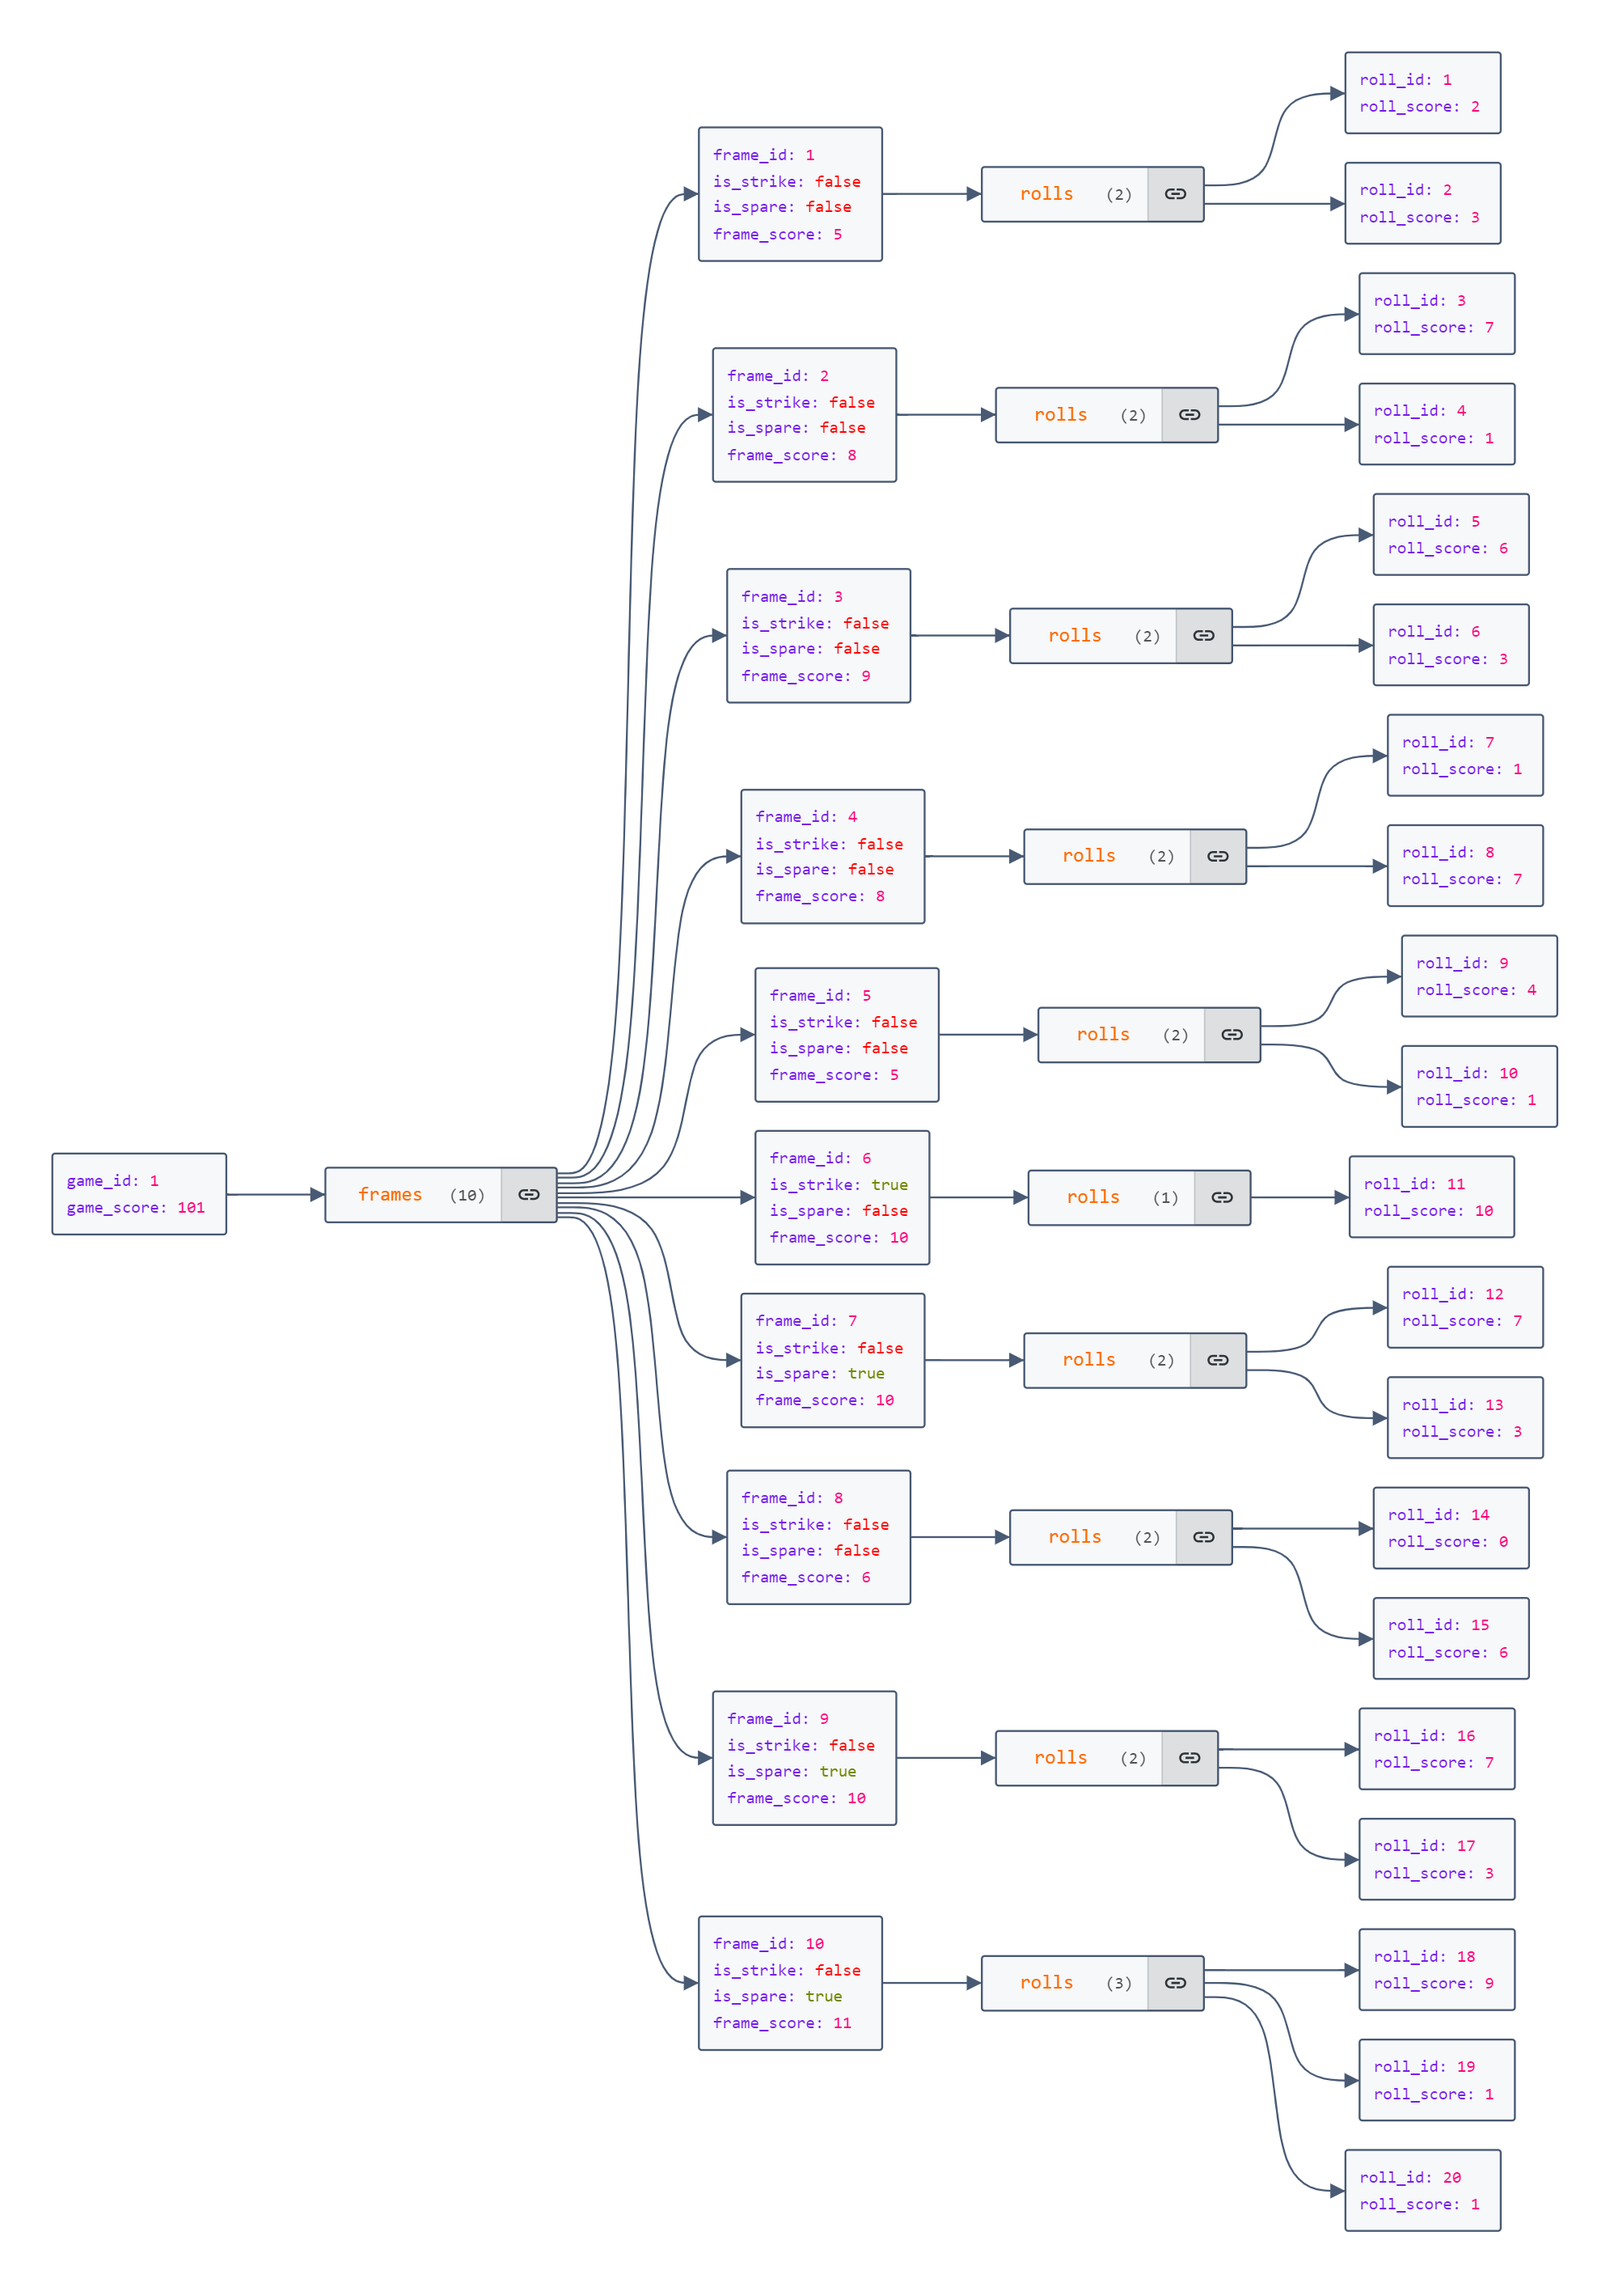
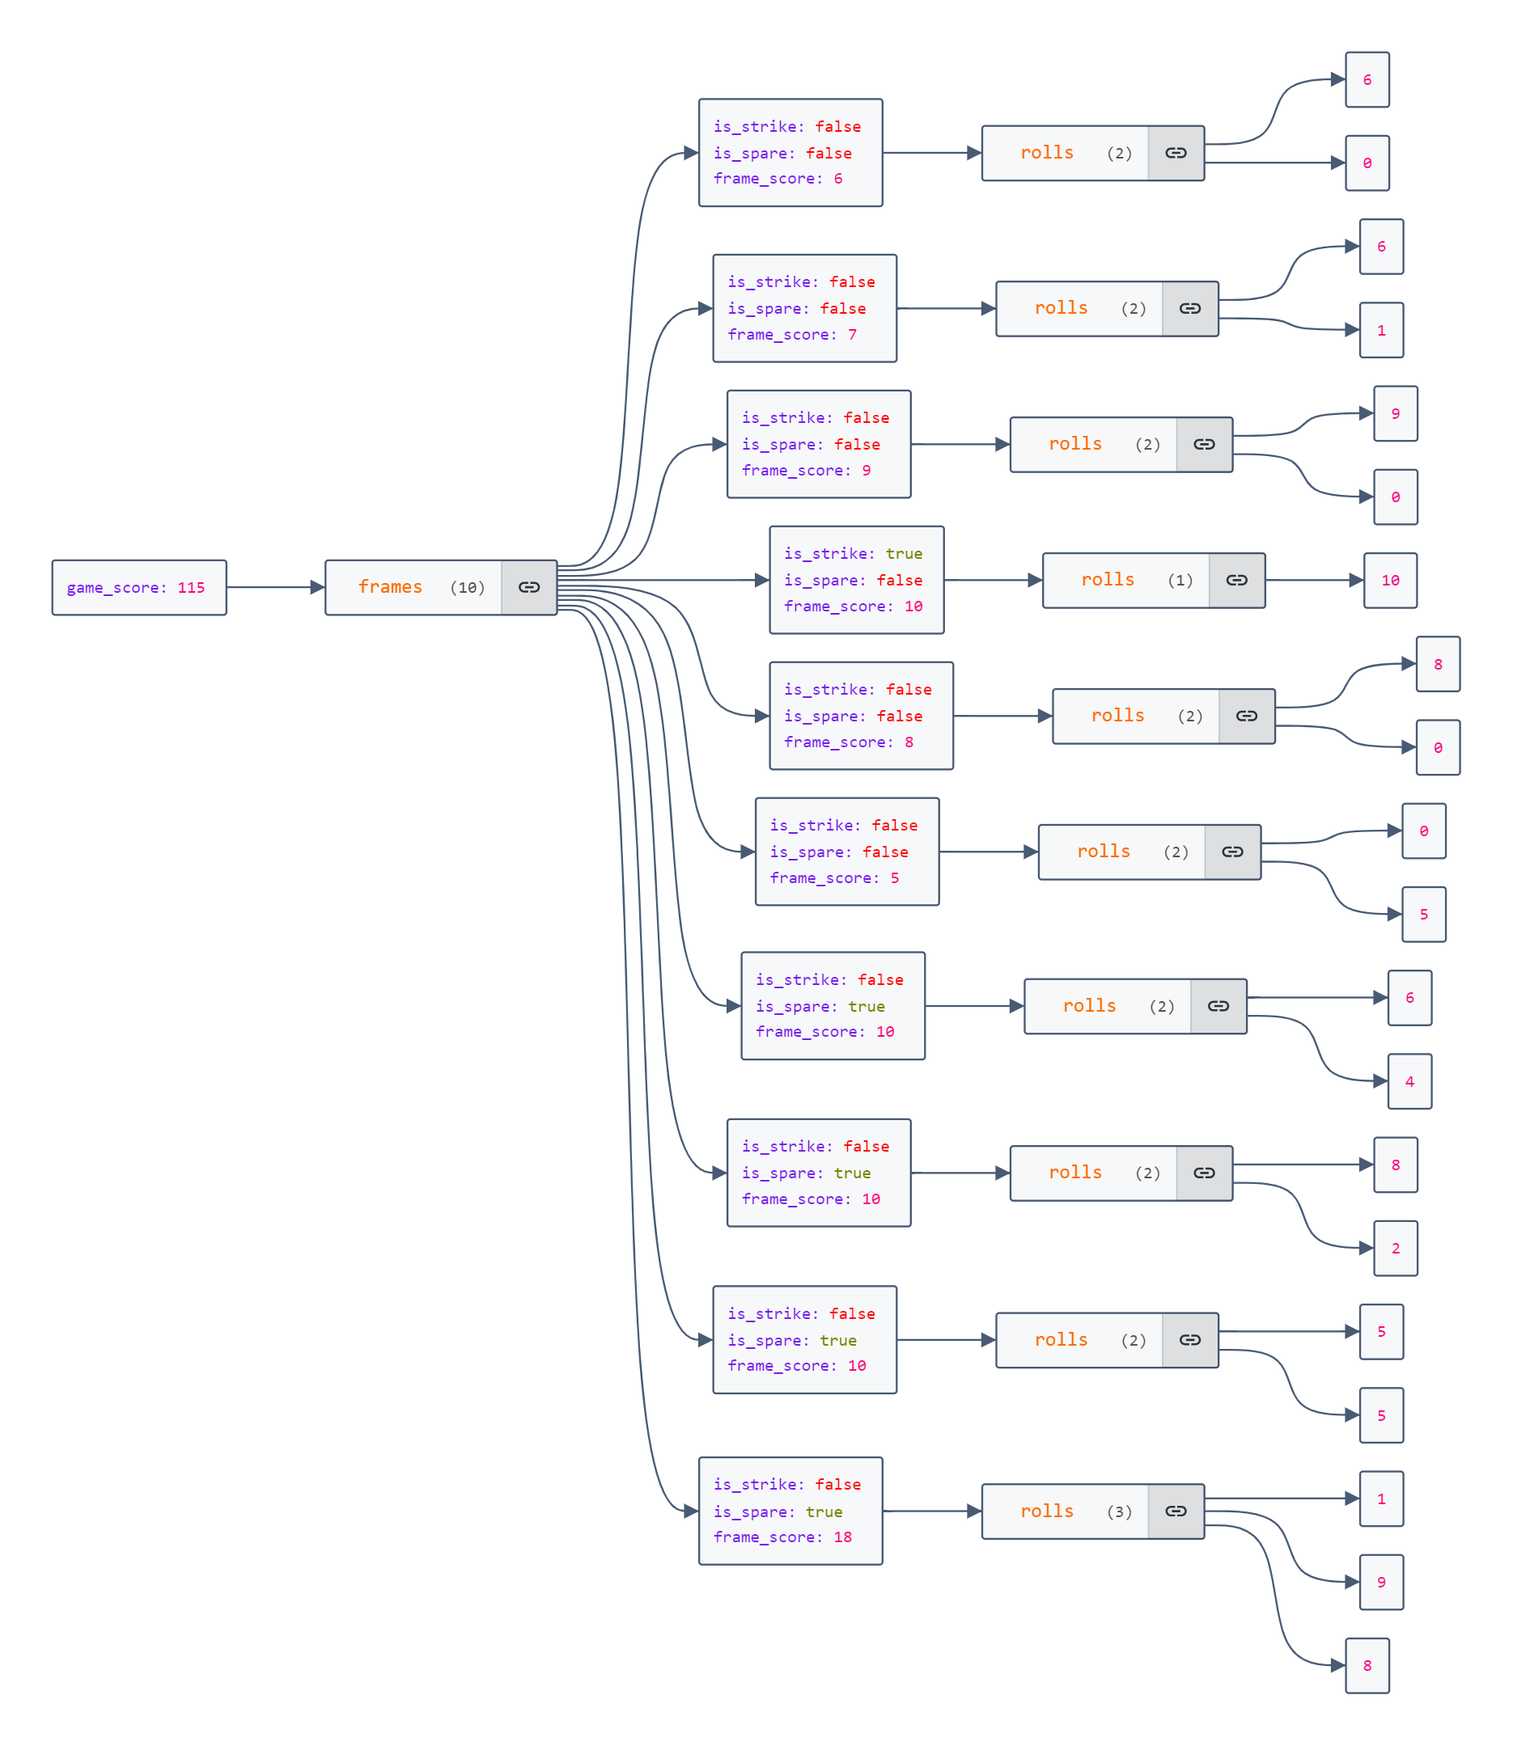
modified

diff --git a/README.md b/README.md
@@ -55,171 +55,100 @@ Random Bowling Game Score Generator API
 #### Sample JSON response
 ```JSON
 {
-  "game_id": 1,
   "frames": [
     {
-      "frame_id": 1,
       "rolls": [
-        {
-          "roll_id": 1,
-          "roll_score": 2
-        },
-        {
-          "roll_id": 2,
-          "roll_score": 3
-        }
-      ],
-      "is_strike": false,
-      "is_spare": false,
-      "frame_score": 5
-    },
-    {
-      "frame_id": 2,
-      "rolls": [
-        {
-          "roll_id": 3,
-          "roll_score": 7
-        },
-        {
-          "roll_id": 4,
-          "roll_score": 1
-        }
-      ],
-      "is_strike": false,
-      "is_spare": false,
-      "frame_score": 8
-    },
-    {
-      "frame_id": 3,
-      "rolls": [
-        {
-          "roll_id": 5,
-          "roll_score": 6
-        },
-        {
-          "roll_id": 6,
-          "roll_score": 3
-        }
-      ],
-      "is_strike": false,
-      "is_spare": false,
-      "frame_score": 9
-    },
-    {
-      "frame_id": 4,
-      "rolls": [
-        {
-          "roll_id": 7,
-          "roll_score": 1
-        },
-        {
-          "roll_id": 8,
-          "roll_score": 7
-        }
-      ],
-      "is_strike": false,
-      "is_spare": false,
-      "frame_score": 8
-    },
-    {
-      "frame_id": 5,
-      "rolls": [
-        {
-          "roll_id": 9,
-          "roll_score": 4
-        },
-        {
-          "roll_id": 10,
-          "roll_score": 1
-        }
-      ],
-      "is_strike": false,
-      "is_spare": false,
-      "frame_score": 5
-    },
-    {
-      "frame_id": 6,
-      "rolls": [
-        {
-          "roll_id": 11,
-          "roll_score": 10
-        }
-      ],
-      "is_strike": true,
-      "is_spare": false,
-      "frame_score": 10
-    },
-    {
-      "frame_id": 7,
-      "rolls": [
-        {
-          "roll_id": 12,
-          "roll_score": 7
-        },
-        {
-          "roll_id": 13,
-          "roll_score": 3
-        }
-      ],
-      "is_strike": false,
-      "is_spare": true,
-      "frame_score": 10
-    },
-    {
-      "frame_id": 8,
-      "rolls": [
-        {
-          "roll_id": 14,
-          "roll_score": 0
-        },
-        {
-          "roll_id": 15,
-          "roll_score": 6
-        }
+        6,
+        0
       ],
       "is_strike": false,
       "is_spare": false,
       "frame_score": 6
     },
     {
-      "frame_id": 9,
       "rolls": [
-        {
-          "roll_id": 16,
-          "roll_score": 7
-        },
-        {
-          "roll_id": 17,
-          "roll_score": 3
-        }
+        6,
+        1
+      ],
+      "is_strike": false,
+      "is_spare": false,
+      "frame_score": 7
+    },
+    {
+      "rolls": [
+        9,
+        0
+      ],
+      "is_strike": false,
+      "is_spare": false,
+      "frame_score": 9
+    },
+    {
+      "rolls": [
+        10
+      ],
+      "is_strike": true,
+      "is_spare": false,
+      "frame_score": 10
+    },
+    {
+      "rolls": [
+        8,
+        0
+      ],
+      "is_strike": false,
+      "is_spare": false,
+      "frame_score": 8
+    },
+    {
+      "rolls": [
+        0,
+        5
+      ],
+      "is_strike": false,
+      "is_spare": false,
+      "frame_score": 5
+    },
+    {
+      "rolls": [
+        6,
+        4
       ],
       "is_strike": false,
       "is_spare": true,
       "frame_score": 10
     },
     {
-      "frame_id": 10,
       "rolls": [
-        {
-          "roll_id": 18,
-          "roll_score": 9
-        },
-        {
-          "roll_id": 19,
-          "roll_score": 1
-        },
-        {
-          "roll_id": 20,
-          "roll_score": 1
-        }
+        8,
+        2
       ],
       "is_strike": false,
       "is_spare": true,
-      "frame_score": 11
+      "frame_score": 10
+    },
+    {
+      "rolls": [
+        5,
+        5
+      ],
+      "is_strike": false,
+      "is_spare": true,
+      "frame_score": 10
+    },
+    {
+      "rolls": [
+        1,
+        9,
+        8
+      ],
+      "is_strike": false,
+      "is_spare": true,
+      "frame_score": 18
     }
   ],
-  "game_score": 101
-} 
+  "game_score": 115
+}
 ```
 
 #### Sample JSON reponse visualisation
